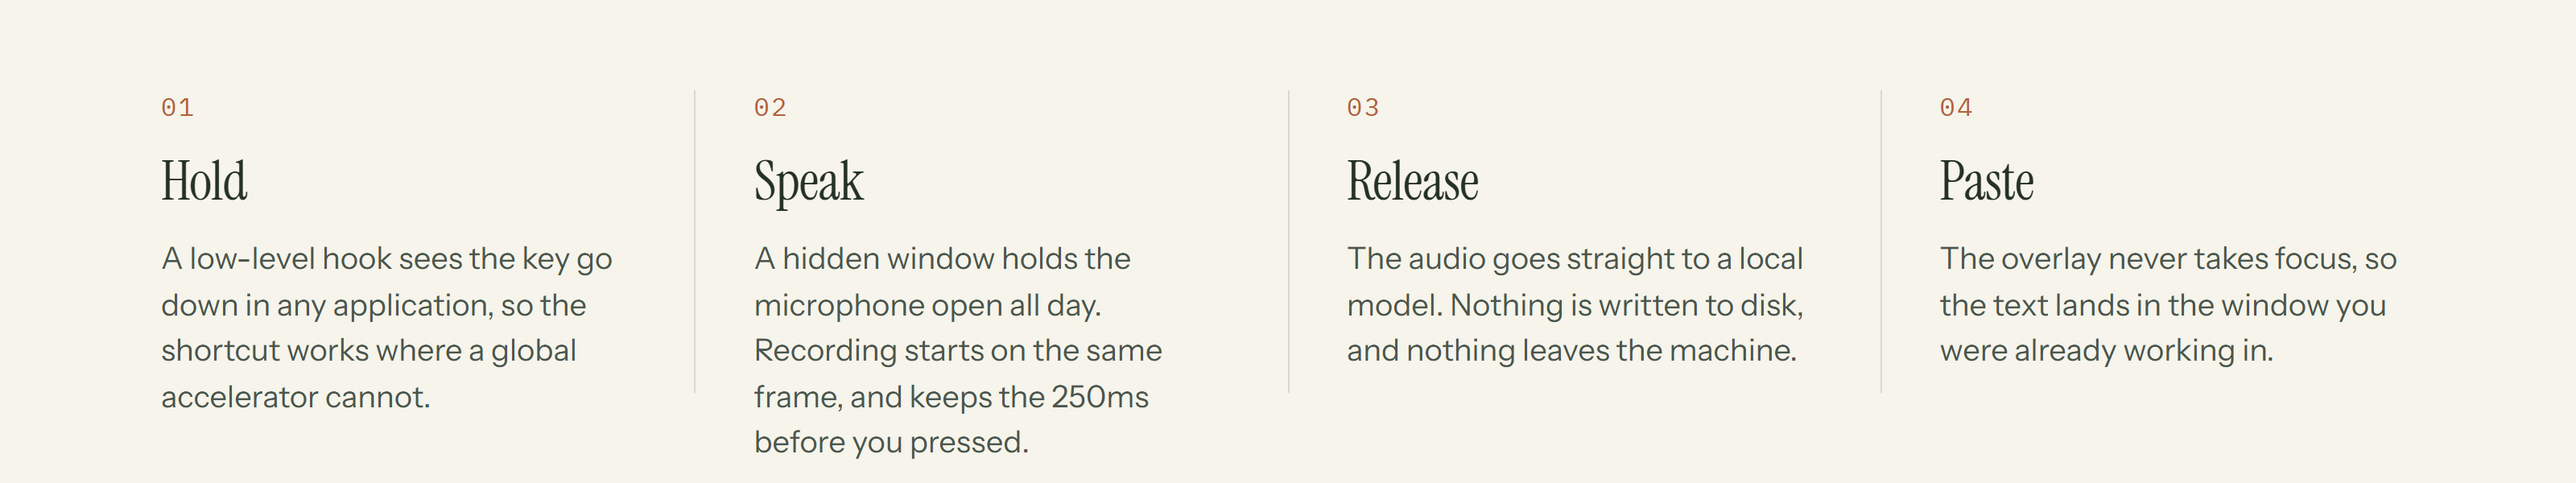
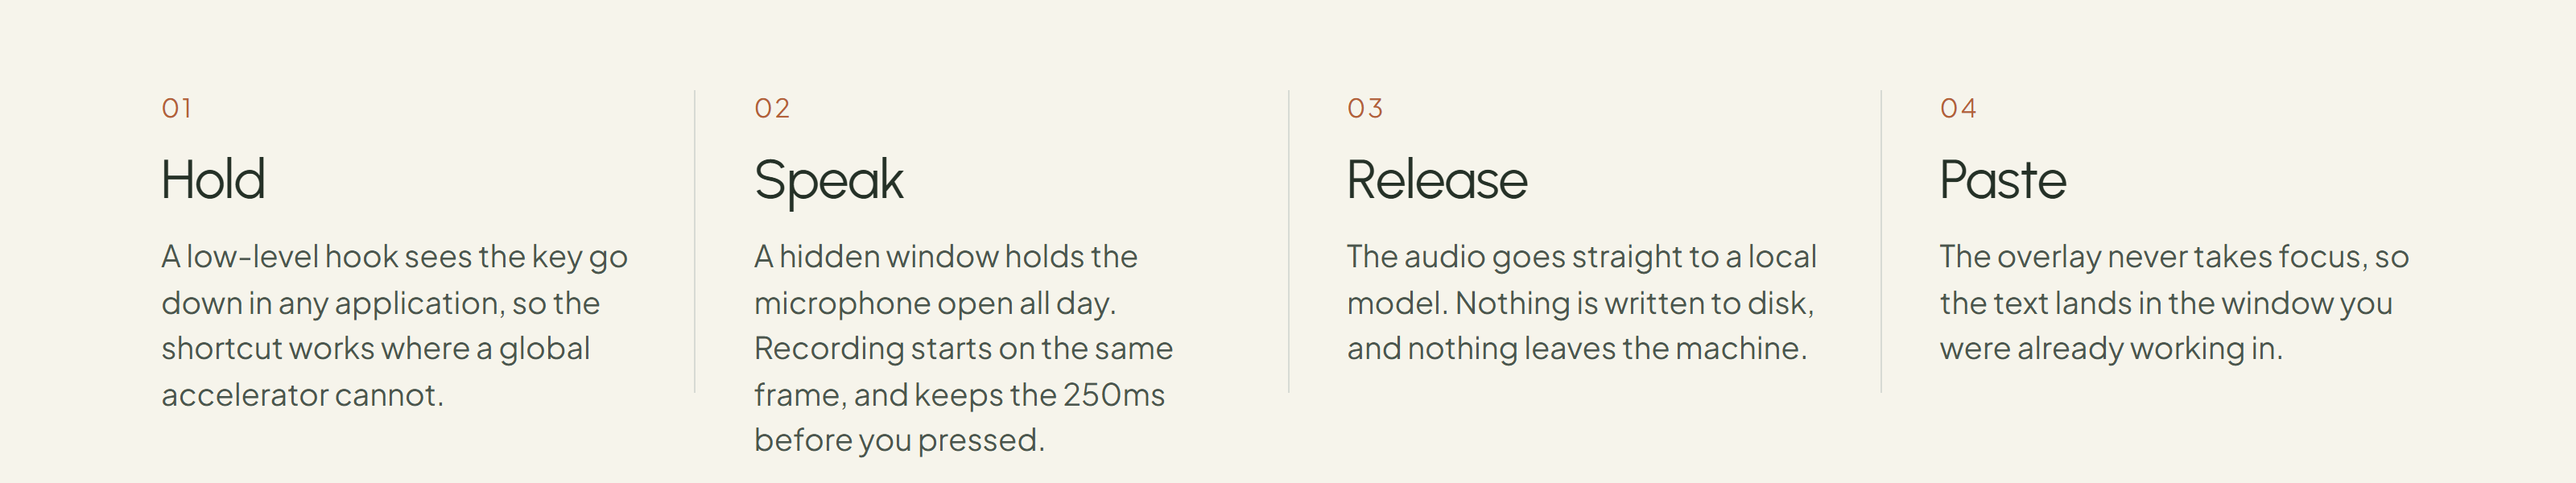
docs: support windows 10 and 11

diff --git a/README.md b/README.md
@@ -9,7 +9,7 @@
 **On-device transcription · Works in every application · Never steals focus**
 
 [![Release](https://img.shields.io/github/v/release/Deckdot/struq-voice?style=flat-square&color=A65332&label=release)](https://github.com/Deckdot/struq-voice/releases/latest)
-[![Windows 11](https://img.shields.io/badge/Windows_11-x64-294638?style=flat-square&logo=windows&logoColor=white)](#install)
+[![Windows 10 and 11](https://img.shields.io/badge/Windows_10_%C2%B7_11-64--bit-294638?style=flat-square&logo=windows&logoColor=white)](#install)
 [![Electron 39](https://img.shields.io/badge/Electron-39-294638?style=flat-square&logo=electron&logoColor=white)](https://www.electronjs.org/)
 [![React 19](https://img.shields.io/badge/React_19-Tailwind_v4-294638?style=flat-square&logo=react&logoColor=white)](https://react.dev/)
 [![TypeScript strict](https://img.shields.io/badge/TypeScript-strict-294638?style=flat-square&logo=typescript&logoColor=white)](https://www.typescriptlang.org/)
@@ -248,7 +248,7 @@ All of them are rebindable in Settings.
 
 ## Install
 
-**Requirements:** Windows 11 x64, and a microphone.
+**Requirements:** Windows 10 or 11, 64-bit, and a microphone.
 
 1. Download `struq-voice-<version>-setup.exe` from the
    [latest release](https://github.com/Deckdot/struq-voice/releases/latest).
@@ -348,6 +348,7 @@ interface, and no error message that names a problem without naming the fix.
 | [`docs/FEATURES.md`](docs/FEATURES.md) | What is built, current state, known gaps |
 | [`docs/MODELS.md`](docs/MODELS.md) | Engines, catalog, download pipeline |
 | [`docs/RELEASING.md`](docs/RELEASING.md) | Cut, sign, verify, publish, and why updates are signed |
+| [`docs/TESTING.md`](docs/TESTING.md) | Risk-weighted test strategy, layers, and review standard |
 | [`docs/TROUBLESHOOTING.md`](docs/TROUBLESHOOTING.md) | Known failures and their fixes |
 
 AI agents can load the invokable skills in `.agents/skills/` and the mirrored

diff --git a/.agents/skills/project-context/SKILL.md b/.agents/skills/project-context/SKILL.md
@@ -6,8 +6,8 @@ description: "Load the full Struq Voice picture before starting any task: what t
 # Project context: Struq Voice
 
 A tray-resident Windows dictation app. Hold a key anywhere in Windows,
-speak, release, and the transcript appears in the focused field. Windows 11
-x64 only. Electron 39 pinned, React 19, Tailwind v4, TypeScript strict.
+speak, release, and the transcript appears in the focused field. Windows 10
+and 11, 64-bit. Electron 39 pinned, React 19, Tailwind v4, TypeScript strict.
 
 ## Read in this order
 
@@ -55,7 +55,7 @@ engines · paste · db    -> main
 
 ## Current state (verified)
 
-All 7 plan phases are built and committed. 106 unit tests pass; typecheck,
-lint and the headless dev e2e suite (8 specs) are green. See
+All 7 plan phases are built and committed. The unit suite, typecheck, lint,
+and the headless dev e2e suite are green. See
 `docs/FEATURES.md` for the details and the short known-gaps list (settings +
 a11y e2e specs not written, manual checklist not run, shadcn not adopted).

diff --git a/.claude/skills/project-context/SKILL.md b/.claude/skills/project-context/SKILL.md
@@ -6,8 +6,8 @@ description: "Load the full Struq Voice picture before starting any task: what t
 # Project context: Struq Voice
 
 A tray-resident Windows dictation app. Hold a key anywhere in Windows,
-speak, release, and the transcript appears in the focused field. Windows 11
-x64 only. Electron 39 pinned, React 19, Tailwind v4, TypeScript strict.
+speak, release, and the transcript appears in the focused field. Windows 10
+and 11, 64-bit. Electron 39 pinned, React 19, Tailwind v4, TypeScript strict.
 
 ## Read in this order
 
@@ -55,7 +55,7 @@ engines · paste · db    -> main
 
 ## Current state (verified)
 
-All 7 plan phases are built and committed. 106 unit tests pass; typecheck,
-lint and the headless dev e2e suite (8 specs) are green. See
+All 7 plan phases are built and committed. The unit suite, typecheck, lint,
+and the headless dev e2e suite are green. See
 `docs/FEATURES.md` for the details and the short known-gaps list (settings +
 a11y e2e specs not written, manual checklist not run, shadcn not adopted).

diff --git a/CLAUDE.md b/CLAUDE.md
@@ -7,8 +7,8 @@ use this file for invocation details and skill loading.
 ## What this project is
 
 A tray-resident Windows dictation app: hold a key anywhere in Windows,
-speak, release, and the transcript appears in the focused field. Windows 11
-x64 only. Electron 39 pinned, React 19, Tailwind v4, TypeScript strict.
+speak, release, and the transcript appears in the focused field. Windows 10
+and 11, 64-bit. Electron 39 pinned, React 19, Tailwind v4, TypeScript strict.
 
 The single design document that binds every UI decision is
 `docs/DESIGN_SYSTEM.md` (Evergreen and Ember). Build views against it or

diff --git a/docs/FEATURES.md b/docs/FEATURES.md
@@ -7,8 +7,8 @@ project-status index any agent or human should read first, after AGENTS.md.
 
 The build plan (`docs/IMPLEMENTATION_PLAN.md`) is fully implemented and
 committed. All gates green: `pnpm typecheck`, `pnpm lint`, `pnpm test`
-(106 unit tests), and the dev e2e suite (8 specs, headless, green when run
-as `pnpm test:e2e`).
+and the dev e2e suite (headless, green when run as `pnpm test:e2e`). The
+risk-weighted test policy lives in `docs/TESTING.md`.
 
 ## The product loop, end to end
 

diff --git a/docs/PLAN-meetings.md b/docs/PLAN-meetings.md
@@ -2539,7 +2539,7 @@ State these in the PR description so nobody thinks they were missed.
   endpoint, not one process. Capturing only Teams needs process loopback,
   which Electron does not expose.
 - **macOS or Linux.** `audio: "loopback"` is Windows only, per the Electron
-  typings. The product is Windows 11 x64 anyway.
+  typings. The product supports Windows 10 and 11, 64-bit only.
 - **Muxing separate lane files.** One mixed archive is what ships.
 
 ---

diff --git a/AGENTS.md b/AGENTS.md
@@ -14,7 +14,7 @@ as invokable skills.
 anywhere in Windows, speak, release, and the transcript appears in whatever
 field you were focused on.
 
-Target: **Windows 11 x64 only.** Electron 39 pinned, React 19, Tailwind v4,
+Target: **Windows 10 and 11, 64-bit.** Electron 39 pinned, React 19, Tailwind v4,
 TypeScript strict.
 
 The one design document that matters more than any other is

diff --git a/docs/IMPLEMENTATION_PLAN.md b/docs/IMPLEMENTATION_PLAN.md
@@ -5,7 +5,7 @@
 > with [`DESIGN_SYSTEM.md`](DESIGN_SYSTEM.md).
 
 **Owner:** Roy Heilbron
-**Target:** Windows 11 x64. Sole supported platform for v1.
+**Target:** Windows 10 and 11, 64-bit. Sole supported platform for v1.
 **Reference implementation to port from:** `C:\Users\Royhe\Documents\Coding\Projects\1Personal\StruqMain\StruqADE`
 
 ---
